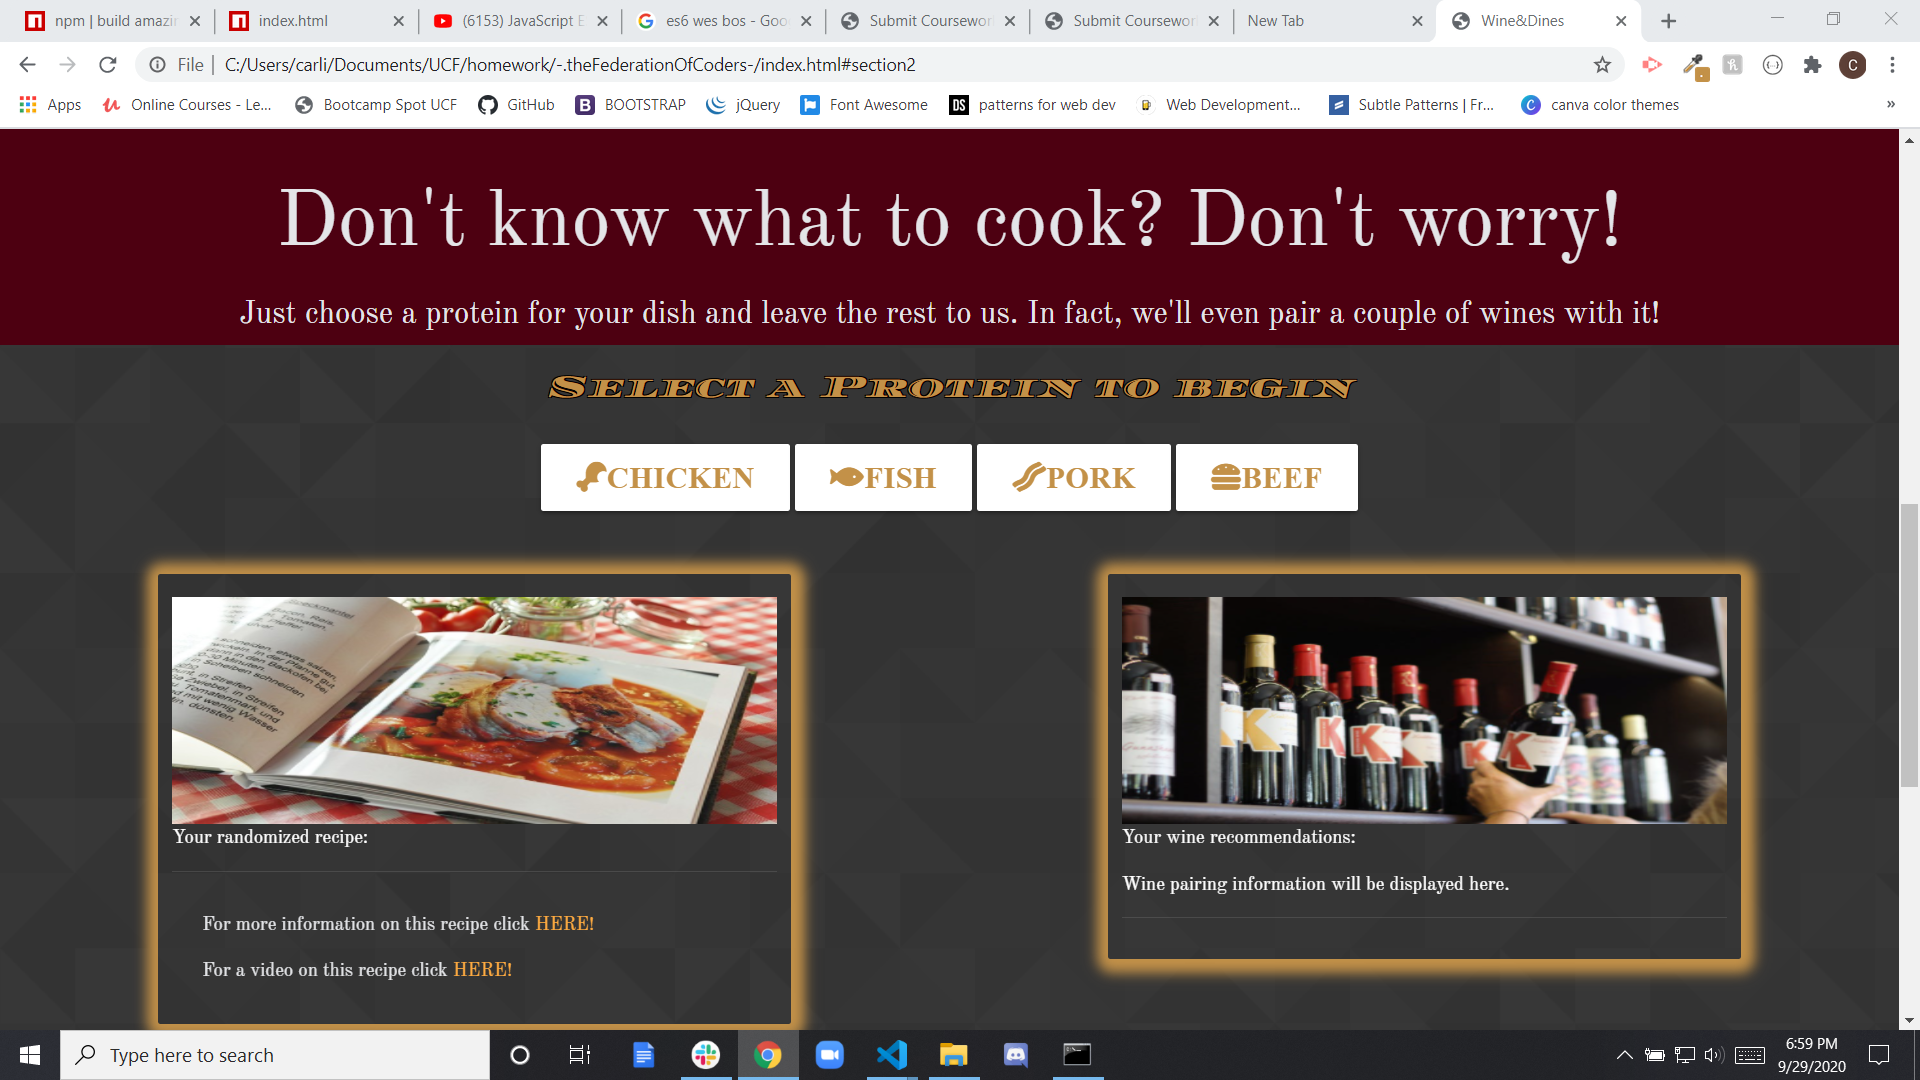
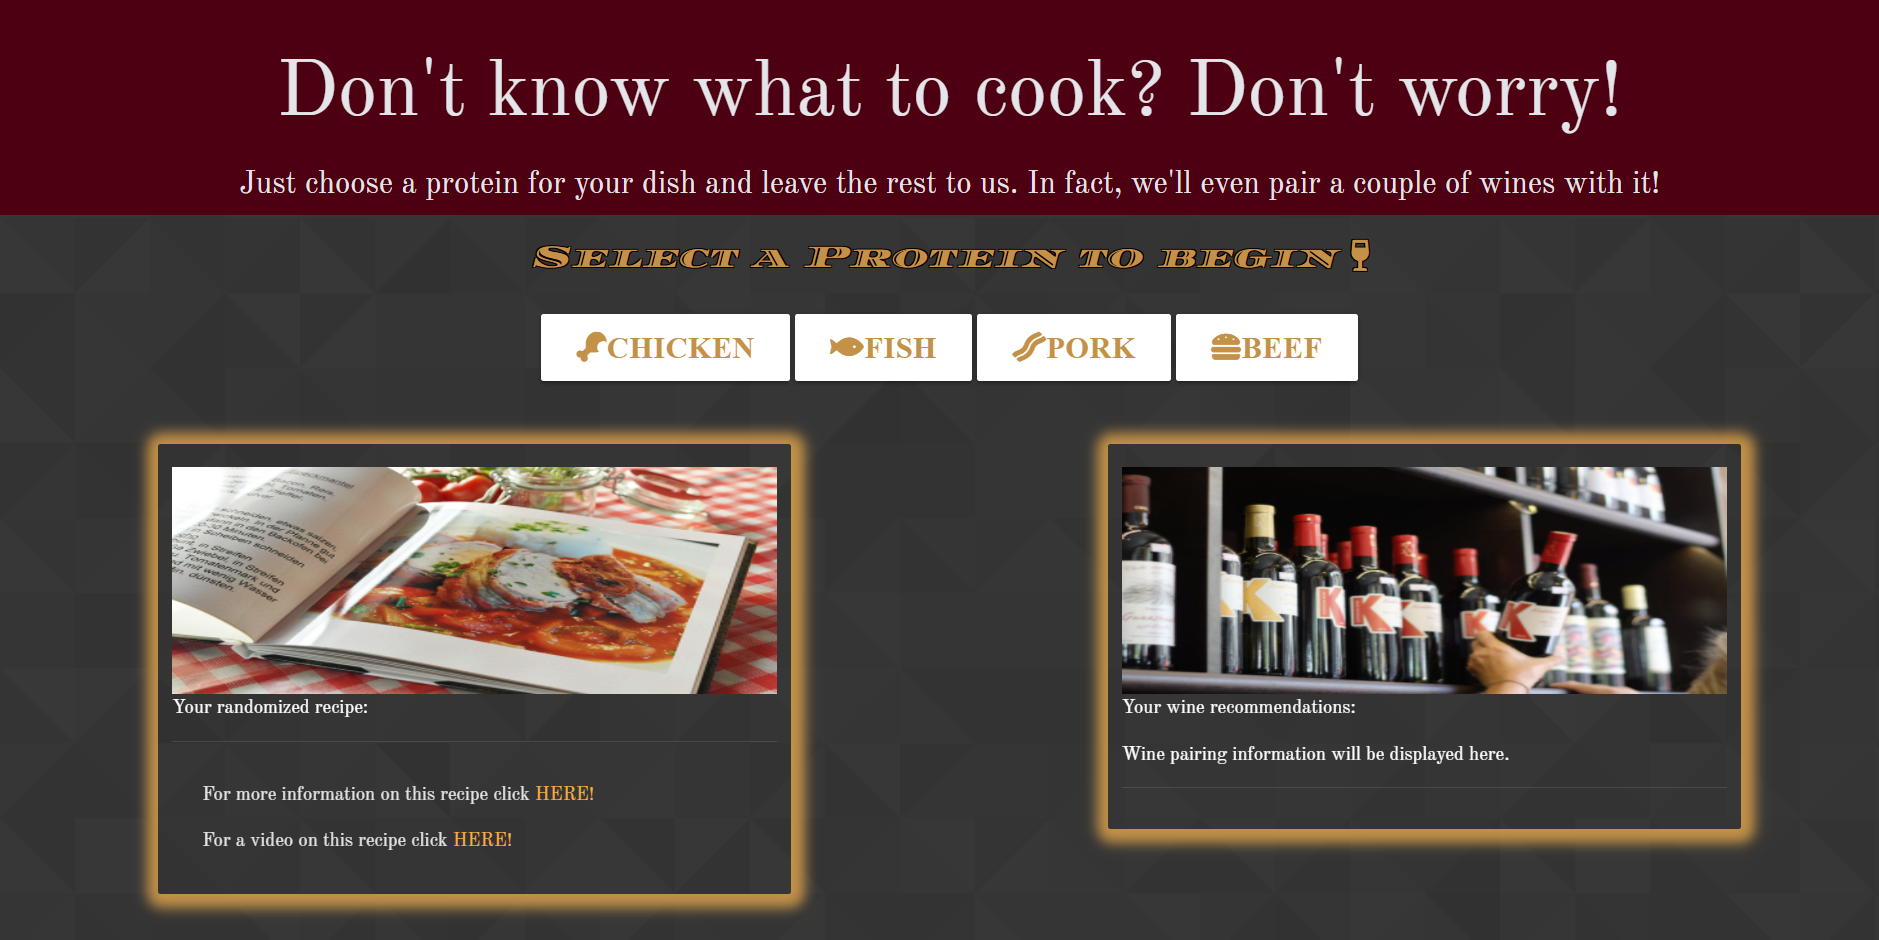
added a new css class for fonts and applied them to the html nav bar

diff --git a/index.html b/index.html
@@ -17,7 +17,7 @@
   <body>
     <nav class="navbar navbar-expand-lg navbar-light bg-light">
       <div class="container">
-        <a class="navbar-brand">Carlito Algarin</a>
+        <a class="navbar-brand" id="bigWords">Carlito Algarin</a>
         <button
           class="navbar-toggler"
           type="button"
@@ -34,11 +34,19 @@
           id="navbarNavAltMarkup"
         >
           <div class="navbar-nav">
-            <a class="nav-link active" href="index.html"
-              >About<span class="sr-only">(current)</span></a
+            <a  id="bigWords" class="nav-link active" href="index.html"
+              >
+              About
+              <span class="sr-only">(current)</span></a
             >
-            <a class="nav-link" href="portfolio.html">Portfolio</a>
-            <a class="nav-link" href="contact.html">Contact</a>
+            <a id="bigWords" class="nav-link" href="portfolio.html">
+              Portfolio
+
+            </a>
+            <a id="bigWords" class="nav-link" href="contact.html">
+              Contact
+
+            </a>
           </div>
         </div>
       </div>

diff --git a/assets/css/style.css b/assets/css/style.css
@@ -12,8 +12,8 @@ body {
 
 .portfolioImage {
   margin: 10px;
-  height:200px;
-  width: 200px;
+  height:300px;
+  width: 300px;
 }
 
 .image-text {
@@ -48,4 +48,8 @@ footer {
 
 .navbar {
   padding-bottom: 0px;
+}
+
+#bigWords {
+  font-family: Georgia, 'Times New Roman', Times, serif;
 }
